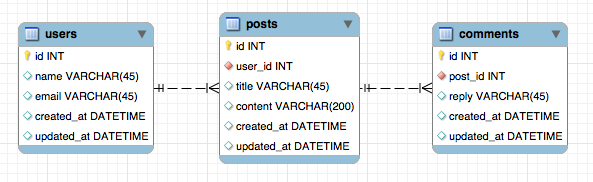
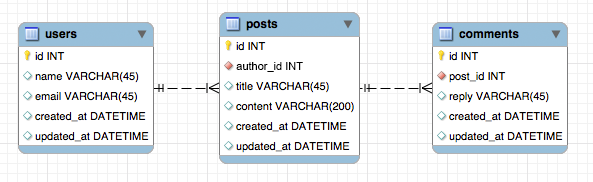
revert change on author definition, change image instead

Changed region(s): [[0.3946, 0.3297, 0.516, 0.4121]]

diff --git a/docs/tutorial/README.md b/docs/tutorial/README.md
@@ -167,7 +167,7 @@ class Post extends Model
 {
     public function author(): BelongsTo
     {
-        return $this->belongsTo(User::class, 'user_id');
+        return $this->belongsTo(User::class);
     }
 
     public function comments(): HasMany
